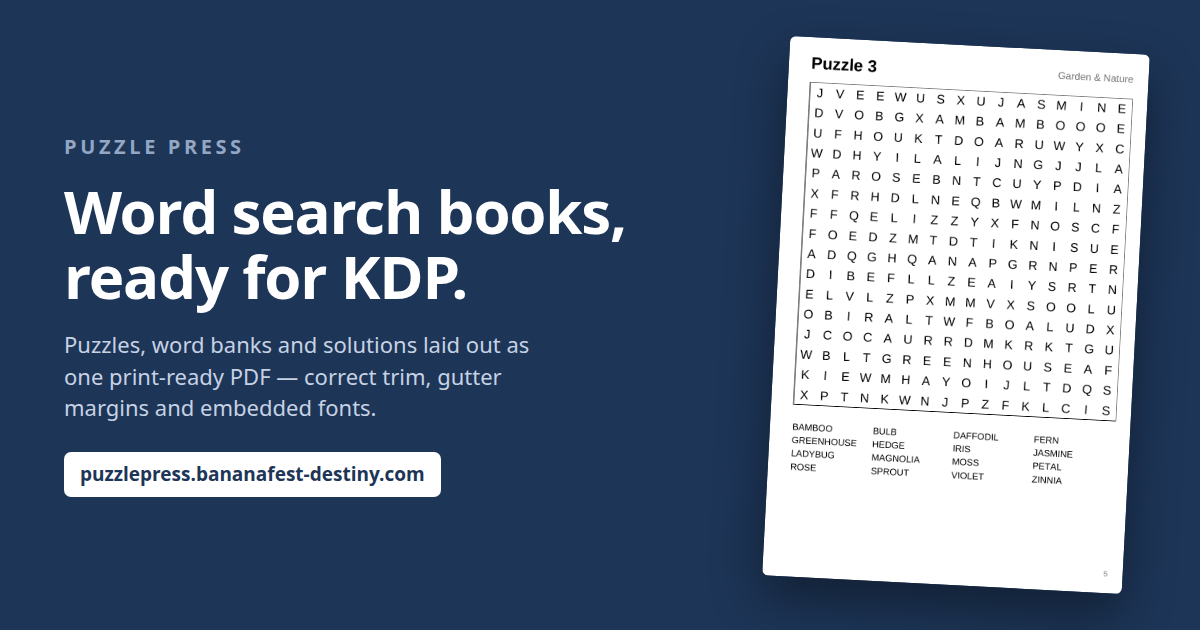
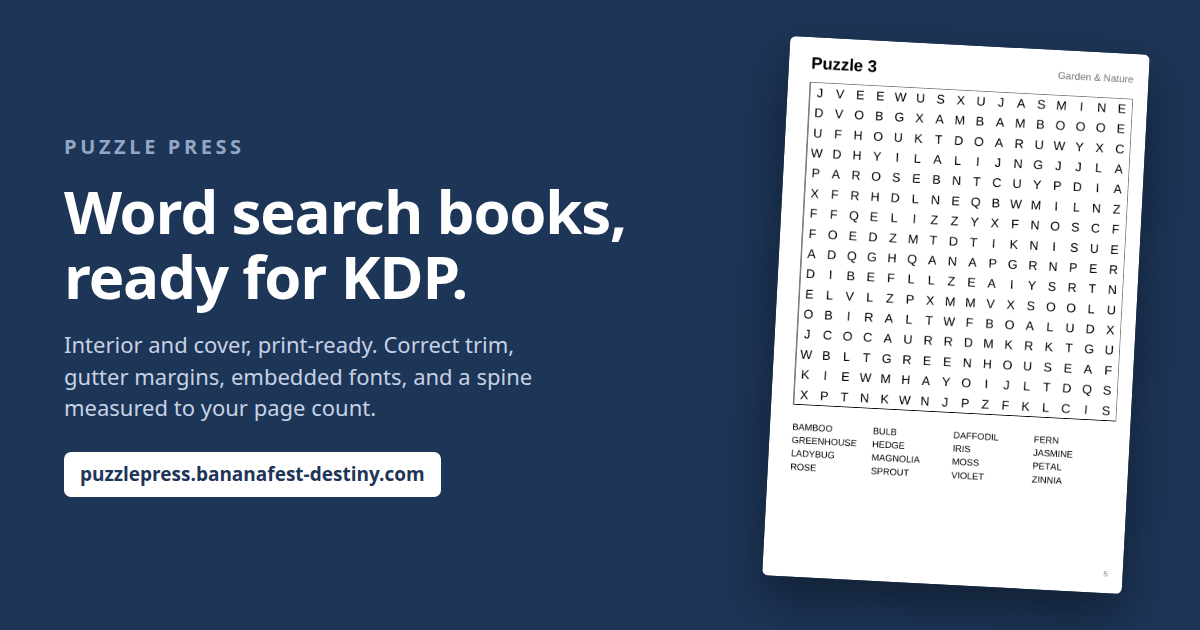
Phase 8b: launch copy, demo and card catch up with the cover
Claude-Session: https://claude.ai/code/session_01GFKKS7ouagdgAcbLvrifEG

Changed region(s): [[0.0617, 0.5127, 0.4317, 0.6635]]

diff --git a/app/public/index.html b/app/public/index.html
@@ -242,8 +242,9 @@ cherry"></textarea>
       <b>How it works</b>
       <ol>
         <li>Pick themes or paste your own words. Set the trim size and number of puzzles.</li>
-        <li>Download the PDF. Fonts are embedded; margins, gutter and bleed follow KDP's manuscript rules.</li>
-        <li>Upload it as your paperback interior. Add a cover, publish.</li>
+        <li>Download the interior PDF. Fonts are embedded; margins, gutter and bleed follow KDP's manuscript rules.</li>
+        <li>Download the matching cover — spine measured from the page count of the book you just made.</li>
+        <li>Upload both to KDP and publish.</li>
       </ol>
       Everything runs in your browser. Your word lists never leave your computer.
     </div>

diff --git a/app/marketing/product-hunt.md b/app/marketing/product-hunt.md
@@ -20,9 +20,9 @@ Alternates:
 
 ## Description (260 char limit)
 
-> Pick a theme or paste your own words. Puzzle Press lays out the whole paperback interior — puzzles, word banks, solutions, page numbers — as one PDF that meets Amazon KDP's margin, bleed and font rules. Runs entirely in your browser. Free up to 5 puzzles.
+> Pick a theme or paste your own words. Puzzle Press lays out the whole paperback — puzzles, word banks, solutions, page numbers — then a matching cover with the spine measured to your exact page count. Runs in your browser. Free up to 5 puzzles.
 
-255 chars.
+244 chars.
 
 ## Links
 
@@ -74,7 +74,9 @@ Live copies: /social-card.png, /demo.gif, /hero-book.png,
 >
 > The hard part was never the puzzle. It's the book. KDP bounces manuscripts for boring reasons: the inside margin has to get wider as the book gets thicker, fonts have to be embedded, there's a 24-page minimum, the page count has to be even. Get one wrong and you're back in the upload queue.
 >
-> Puzzle Press does the whole interior. Pick themes or paste your own word list, choose a trim size, and you get a PDF with puzzles, word banks, a solutions section and page numbers — margins, gutter, bleed and embedded fonts already correct.
+> Puzzle Press does the whole interior. Pick from 32 themes or paste your own word list, choose a trim size, and you get a PDF with puzzles, word banks, a solutions section and page numbers — margins, gutter, bleed and embedded fonts already correct.
+>
+> Then it makes the cover, which is the part I expected to be easy and wasn't. A paperback spine is page count times paper thickness, so the cover can't be designed until the interior exists. Puzzle Press already knows the page count, because it just made the book — so the wrap comes out at the exact size, spine included, barcode area left clear. (Two of the top-ranked KDP spine calculators online add 0.06" to that number. Amazon's own documentation doesn't. That 0.06" is a hardcover rule, and it will get your cover rejected.)
 >
 > Four things I cared about in the puzzles themselves:
 >
@@ -83,7 +85,9 @@ Live copies: /social-card.png, /demo.gif, /hero-book.png,
 > • **Filler letters are screened**, so a random fill never spells something you'd rather not print in a book for kids or grandparents.
 > • **Every puzzle has its own word set.** A 100-puzzle book is 100 different puzzles, not a reshuffle of twenty.
 >
-> Free for books up to 5 puzzles — real books, just shorter, with a small footer line. $19 once removes both limits for good. No account, no subscription, and nothing you type ever leaves your browser.
+> There's also a large-print mode, which is the biggest sub-niche in puzzle books — one checkbox sets the trim, the grid and the word count so the letters come out around 23pt.
+>
+> Free for books up to 5 puzzles — real books, just shorter, with a small footer line. $19 once removes the limits for good and unlocks cover generation. No account, no subscription, and nothing you type ever leaves your browser.
 >
 > There's a full sample book (PDF) on the site if you'd rather see the output before touching the tool.
 >
@@ -108,7 +112,8 @@ your decision, not mine:
 - Likely questions, worth having answers ready for:
   - *Can I sell what it makes?* Yes, no rights claimed, no royalty.
   - *Does it do sudoku / mazes / crosswords?* Not yet. Same pipeline, planned as updates to this app.
-  - *What about large print?* Pick 8.5×11 with fewer words per puzzle — the grid scales to the page.
+  - *Does it make the cover?* Yes — full wrap, spine sized from the page count, barcode area kept clear. Part of the paid unlock.
+  - *What about large print?* There's a Large print checkbox — 8.5×11, 15×15 grid, ~23pt letters.
   - *Is my word list uploaded?* No. Generation and PDF rendering are entirely client-side.
 - Before launching, clear the Stripe product's **unit label** so checkout stops
   reading "$19.00 per unlimited".

diff --git a/actual/2026-09-10.md b/actual/2026-09-10.md
@@ -127,3 +127,16 @@ Done and deployed (version `561620d9`). This was my call on what to build next, 
 **Verified:** 6 new tests (24 total, all pass) including the geometry equations and the anti-`+0.06` guard; browser run confirms free tier is gated, licensed download produces a 1-page 12.550" × 9.250" PDF for a 120-page cream book (spine 0.300"), fonts embedded, no console errors; the rendered cover rasterized and inspected by eye.
 
 Landing page, pricing block and FAQ updated to say the cover exists and that it is part of the paid unlock.
+
+## Phase 8b — copy caught up with the product
+
+The cover changed what this is, so everything describing it had to change too. Found by re-reading the page after shipping, not by anyone reporting it.
+
+- **"How it works" was actively wrong.** Step 3 read "Upload it as your paperback interior. Add a cover, publish." — telling people to go and make the cover the app now makes. Rewritten to three steps ending "Upload both to KDP and publish."
+- **Product Hunt copy rewritten.** Description now leads with interior *and* cover (244/260). The first comment gains a paragraph on why the cover was the hard part — the spine can't be sized until the interior exists, and the two top-ranked spine calculators online add 0.06" that Amazon's own docs don't. That is a genuinely useful warning for the audience and it is true. Large print added. The free/paid line now says the unlock includes cover generation. Likely-question answers updated.
+- **Demo GIF re-recorded** — 9 frames now, ending on the cover it just generated. Runs licensed so the paid step is visible.
+- **Social card** copy updated to "Interior and cover, print-ready."
+
+**Verified:** deployed as `97533454`, waited for edge propagation and confirmed the live HTML, card and GIF are the new ones by size and content; live e2e still passes.
+
+Worth noting for next time: the launch reminder routine reads `app/marketing/product-hunt.md` at fire time rather than carrying a copy of the text. That decision is why tonight's rewrite reaches Monday's email automatically.
